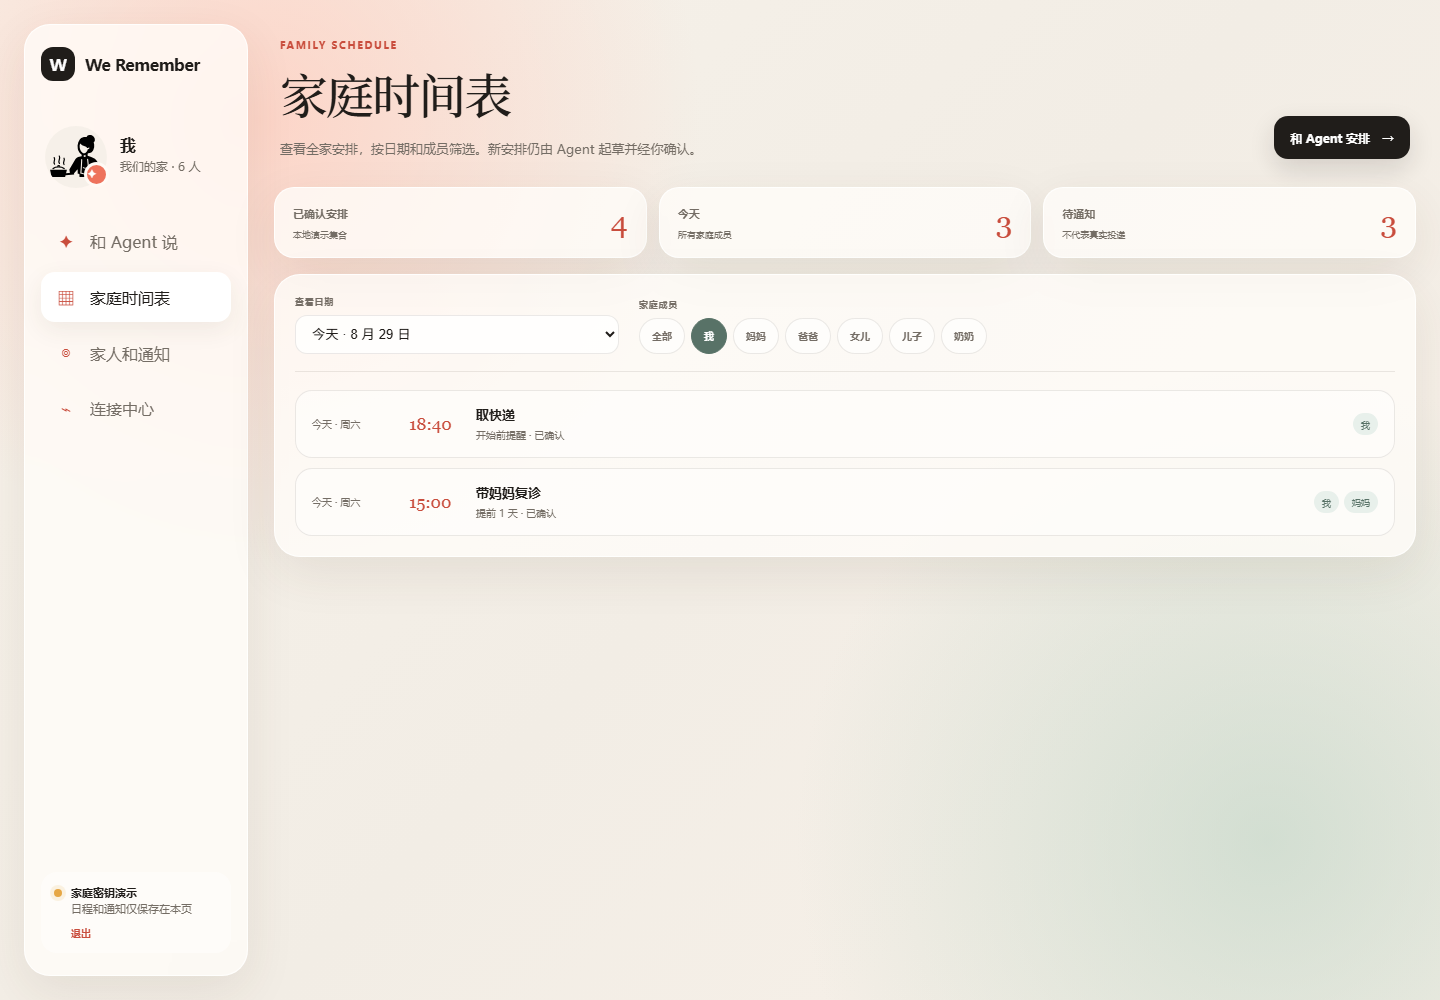
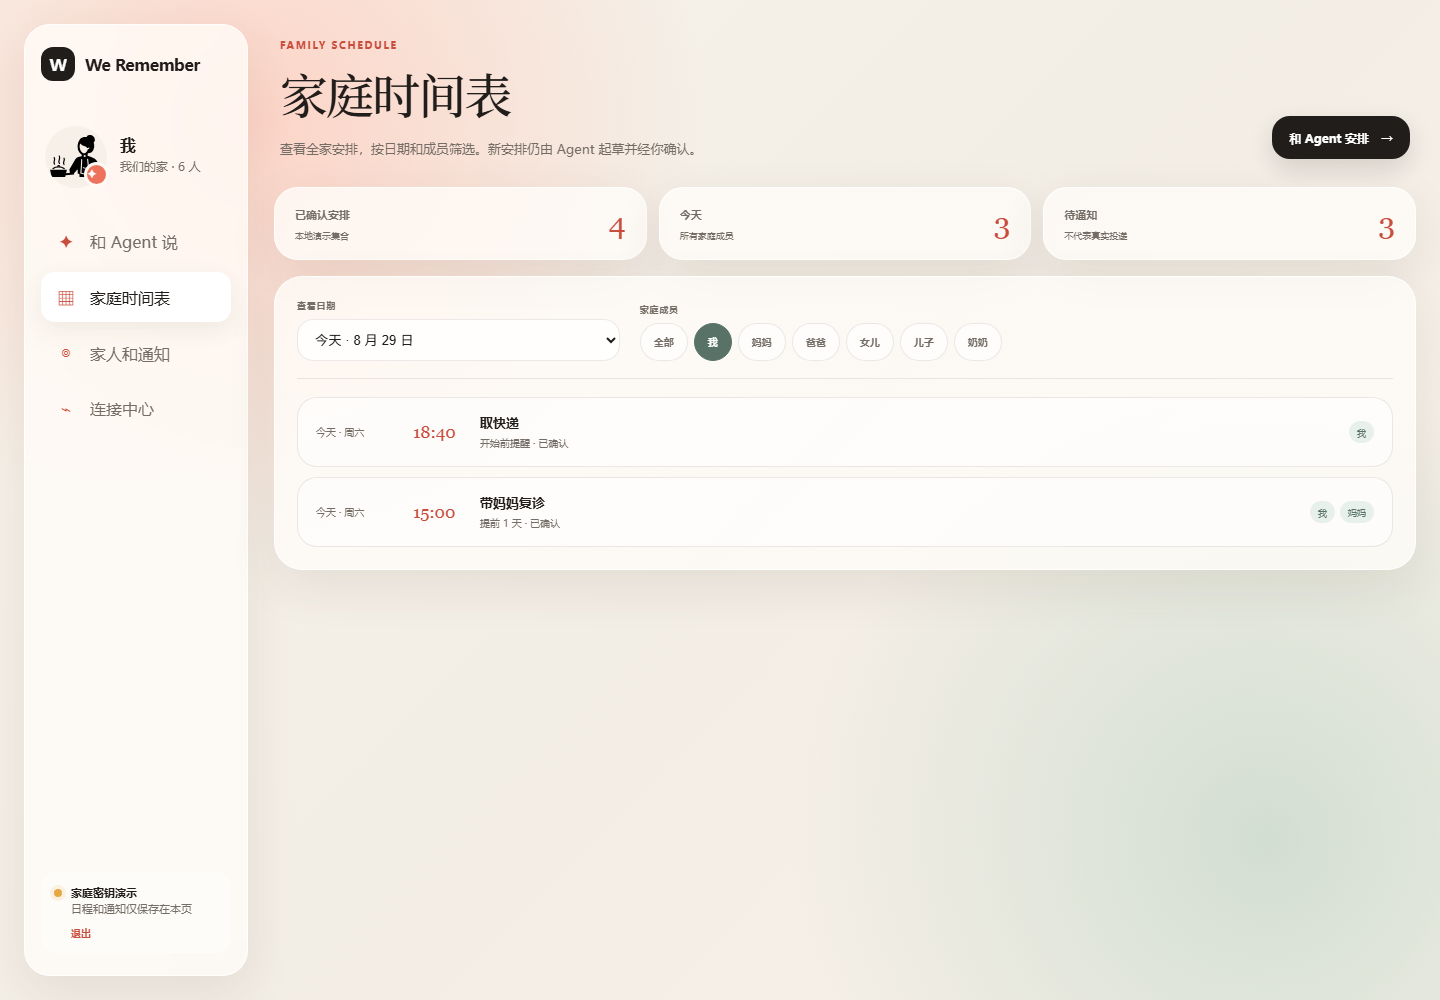
Polish rounded container interactions

diff --git a/app/styles.css b/app/styles.css
@@ -272,24 +272,29 @@ button { color: inherit; }
 .page-header { display: flex; justify-content: space-between; gap: 24px; align-items: flex-end; padding: 0 6px; }
 .page-header h1 { margin: 0; font-family: Georgia, "Songti SC", serif; font-size: clamp(31px, 4vw, 48px); font-weight: 500; letter-spacing: -0.04em; text-wrap: balance; }
 .page-header p:last-child { max-width: 620px; margin: 10px 0 0; color: var(--muted); font-size: 13px; line-height: 1.65; text-wrap: pretty; }
-.primary-page-action { display: flex; flex: 0 0 auto; align-items: center; gap: 12px; min-height: 43px; padding: 0 16px; color: white; border: 0; border-radius: 14px; background: var(--ink); box-shadow: 0 10px 26px rgba(32,29,26,.14); cursor: pointer; font-size: 12px; font-weight: 750; transition: transform 180ms ease, background 180ms ease; }
+.primary-page-action { display: flex; flex: 0 0 auto; align-items: center; gap: 12px; min-height: 43px; padding: 0 17px; color: white; border: 0; border-radius: 18px; background: var(--ink); box-shadow: 0 10px 26px rgba(32,29,26,.14); cursor: pointer; font-size: 12px; font-weight: 750; transition: transform 180ms ease, background 180ms ease; }
 .primary-page-action:hover { transform: translateY(-2px); background: var(--accent-dark); }
+.primary-page-action:active { transform: scale(.96); }
 .summary-grid { display: grid; grid-template-columns: repeat(3, minmax(0, 1fr)); gap: 12px; margin: 28px 0 16px; }
-.summary-card { display: grid; grid-template-columns: minmax(0, 1fr) auto; gap: 6px 14px; align-items: center; padding: 17px 18px; border-radius: 20px; }
+.summary-card { display: grid; grid-template-columns: minmax(0, 1fr) auto; gap: 6px 14px; align-items: center; padding: 18px 20px; border-radius: 24px; }
 .summary-card > span { color: var(--muted); font-size: 11px; font-weight: 700; }
 .summary-card strong { grid-row: 1 / 3; grid-column: 2; color: var(--accent-dark); font-family: Georgia, serif; font-size: 30px; font-variant-numeric: tabular-nums; font-weight: 500; }
 .summary-card small { color: var(--muted); font-size: 9px; }
-.schedule-panel, .people-panel, .receipts-panel { border-radius: var(--radius-lg); }
-.schedule-panel { padding: 20px; }
+.schedule-panel, .people-panel, .receipts-panel { border-radius: 28px; }
+.schedule-panel { padding: 22px; }
 .filter-bar { display: grid; grid-template-columns: minmax(190px, .6fr) minmax(0, 1.4fr); gap: 20px; align-items: end; padding-bottom: 17px; border-bottom: 1px solid var(--line); }
 .filter-bar label, .member-filter { display: grid; gap: 8px; }
 .filter-bar label > span, .member-filter > span { color: var(--muted); font-size: 9px; font-weight: 800; letter-spacing: .08em; text-transform: uppercase; }
-.filter-bar select { width: 100%; min-height: 39px; padding: 0 12px; color: var(--ink); border: 1px solid var(--line); border-radius: 12px; background: rgba(255,255,255,.78); }
+.filter-bar select { width: 100%; min-height: 42px; padding: 0 13px; color: var(--ink); border: 1px solid var(--line); border-radius: 16px; background: rgba(255,255,255,.78); transition: border-color 150ms ease, background-color 150ms ease; }
+.filter-bar select:hover { border-color: rgba(74,65,55,.24); background: rgba(255,255,255,.94); }
 .member-filter > div { display: flex; flex-wrap: wrap; gap: 6px; }
-.member-filter button { min-height: 36px; padding: 0 12px; color: var(--muted); border: 1px solid var(--line); border-radius: 999px; background: rgba(255,255,255,.54); cursor: pointer; font-size: 10px; font-weight: 700; }
+.member-filter button { min-height: 38px; padding: 0 13px; color: var(--muted); border: 1px solid var(--line); border-radius: 999px; background: rgba(255,255,255,.54); cursor: pointer; font-size: 10px; font-weight: 700; transition: transform 150ms ease, border-color 150ms ease, background-color 150ms ease, color 150ms ease; }
+.member-filter button:hover { border-color: rgba(90,123,106,.38); background: rgba(255,255,255,.88); }
+.member-filter button:active { transform: scale(.96); }
 .member-filter button[aria-pressed="true"] { color: white; border-color: var(--sage); background: var(--sage); }
 .schedule-event-list { display: grid; gap: 10px; margin-top: 18px; }
-.schedule-event { display: grid; grid-template-columns: 82px 52px minmax(0, 1fr) auto; gap: 15px; align-items: center; padding: 15px 16px; border: 1px solid var(--line); border-radius: 17px; background: rgba(255,255,255,.48); }
+.schedule-event { display: grid; grid-template-columns: 82px 52px minmax(0, 1fr) auto; gap: 15px; align-items: center; padding: 16px 18px; border: 1px solid var(--line); border-radius: 20px; background: rgba(255,255,255,.52); transition: border-color 150ms ease, background-color 150ms ease, box-shadow 180ms ease; }
+.schedule-event:hover { border-color: rgba(90,123,106,.2); background: rgba(255,255,255,.82); box-shadow: 0 6px 8px rgba(80,57,38,.06); }
 .schedule-event .event-day { color: var(--muted); font-size: 10px; }
 .schedule-event time { color: var(--accent-dark); font-family: Georgia, serif; font-size: 17px; font-variant-numeric: tabular-nums; }
 .schedule-event strong, .schedule-event small { display: block; }
@@ -297,21 +302,22 @@ button { color: inherit; }
 .schedule-event small { margin-top: 5px; color: var(--muted); font-size: 10px; }
 .schedule-event .event-members { display: flex; flex-wrap: wrap; justify-content: flex-end; gap: 5px; }
 .schedule-event .event-members span { padding: 5px 8px; color: var(--sage); border-radius: 999px; background: #e8f0eb; font-size: 9px; }
-.empty-state { padding: 32px 20px; color: var(--muted); border: 1px dashed rgba(74,65,55,.2); border-radius: 17px; text-align: center; }
+.empty-state { padding: 32px 20px; color: var(--muted); border: 1px dashed rgba(74,65,55,.2); border-radius: 22px; text-align: center; }
 .empty-state strong { display: block; color: var(--ink); font-size: 14px; }
 .empty-state p { margin: 7px 0 14px; font-size: 11px; }
 .empty-state button { color: var(--accent-dark); border: 0; background: transparent; cursor: pointer; font-size: 11px; font-weight: 750; }
-.demo-truth { display: flex; gap: 12px; align-items: center; margin: 26px 0 16px; padding: 14px 17px; border-radius: 18px; }
+.demo-truth { display: flex; gap: 13px; align-items: center; margin: 26px 0 16px; padding: 16px 19px; border-radius: 24px; }
 .demo-truth > span { display: grid; flex: 0 0 auto; width: 31px; height: 31px; place-items: center; color: #8a6731; border-radius: 50%; background: #fae7bd; font-family: Georgia, serif; font-weight: 700; }
 .demo-truth strong { font-size: 11px; }
 .demo-truth p { margin: 4px 0 0; color: var(--muted); font-size: 10px; line-height: 1.55; }
 .people-layout { display: grid; grid-template-columns: minmax(290px, .85fr) minmax(380px, 1.15fr); gap: 16px; }
-.people-panel, .receipts-panel { padding: 20px; }
+.people-panel, .receipts-panel { padding: 22px; }
 .people-panel > header, .receipts-panel > header { display: flex; justify-content: space-between; align-items: flex-start; }
 .people-panel h2, .receipts-panel h2 { margin: 0; font-family: Georgia, "Songti SC", serif; font-size: 22px; font-weight: 500; }
 .people-panel > header > span, .receipts-panel > header > span { padding: 5px 8px; color: var(--muted); border-radius: 999px; background: rgba(255,255,255,.68); font-size: 9px; }
 .people-member-list, .notification-receipt-list { display: grid; gap: 9px; margin-top: 16px; }
-.member-row { display: grid; grid-template-columns: 38px minmax(0, 1fr) auto; gap: 11px; align-items: center; padding: 10px; border: 1px solid var(--line); border-radius: 15px; background: rgba(255,255,255,.46); }
+.member-row { display: grid; grid-template-columns: 38px minmax(0, 1fr) auto; gap: 11px; align-items: center; padding: 11px 12px; border: 1px solid var(--line); border-radius: 20px; background: rgba(255,255,255,.5); transition: border-color 150ms ease, background-color 150ms ease, box-shadow 180ms ease; }
+.member-row:hover { border-color: rgba(90,123,106,.2); background: rgba(255,255,255,.82); box-shadow: 0 6px 8px rgba(80,57,38,.06); }
 .member-row .person-avatar { width: 38px; height: 38px; }
 .member-row strong, .member-row small { display: block; }
 .member-row strong { font-size: 12px; }
@@ -326,7 +332,8 @@ button { color: inherit; }
 .receipt-legend .queued, .receipt-status.queued { background: #e7a744; }
 .receipt-legend .accepted, .receipt-status.accepted { background: #75a987; }
 .receipt-legend .failed, .receipt-status.failed { background: #cb6757; }
-.notification-receipt { display: grid; grid-template-columns: 9px minmax(0, 1fr) auto; gap: 10px; align-items: start; padding: 13px; border: 1px solid var(--line); border-radius: 15px; background: rgba(255,255,255,.46); }
+.notification-receipt { display: grid; grid-template-columns: 9px minmax(0, 1fr) auto; gap: 10px; align-items: start; padding: 14px 15px; border: 1px solid var(--line); border-radius: 20px; background: rgba(255,255,255,.5); transition: border-color 150ms ease, background-color 150ms ease, box-shadow 180ms ease; }
+.notification-receipt:hover { border-color: rgba(90,123,106,.2); background: rgba(255,255,255,.82); box-shadow: 0 6px 8px rgba(80,57,38,.06); }
 .receipt-status { width: 8px; height: 8px; margin-top: 4px; border-radius: 50%; }
 .notification-receipt strong, .notification-receipt small { display: block; }
 .notification-receipt strong { font-size: 11px; }
@@ -471,7 +478,7 @@ button:focus-visible, input:focus-visible, textarea:focus-visible, select:focus-
   .summary-grid { grid-template-columns: 1fr; gap: 8px; margin-top: 18px; }
   .summary-card { padding: 13px 15px; }
   .summary-card strong { font-size: 25px; }
-  .schedule-panel, .people-panel, .receipts-panel { padding: 14px; border-radius: 21px; }
+  .schedule-panel, .people-panel, .receipts-panel { padding: 16px; border-radius: 26px; }
   .filter-bar { grid-template-columns: 1fr; gap: 14px; }
   .member-filter > div { flex-wrap: nowrap; margin: 0 -2px; padding: 2px 2px 7px; overflow-x: auto; scrollbar-width: thin; }
   .member-filter button { flex: 0 0 auto; }

diff --git a/app/index.html b/app/index.html
@@ -194,12 +194,12 @@
           </header>
 
           <section class="summary-grid" aria-label="时间表摘要">
-            <article class="summary-card surface"><span>已确认安排</span><strong id="schedule-total-count">3</strong><small>本地演示集合</small></article>
-            <article class="summary-card surface"><span>今天</span><strong id="schedule-today-count">2</strong><small>所有家庭成员</small></article>
-            <article class="summary-card surface"><span>待通知</span><strong id="schedule-notification-count">0</strong><small>不代表真实投递</small></article>
+            <article class="summary-card surface lift-card"><span>已确认安排</span><strong id="schedule-total-count">3</strong><small>本地演示集合</small></article>
+            <article class="summary-card surface lift-card"><span>今天</span><strong id="schedule-today-count">2</strong><small>所有家庭成员</small></article>
+            <article class="summary-card surface lift-card"><span>待通知</span><strong id="schedule-notification-count">0</strong><small>不代表真实投递</small></article>
           </section>
 
-          <section class="schedule-panel surface">
+          <section class="schedule-panel surface lift-card">
             <div class="filter-bar">
               <label for="schedule-day-filter"><span>查看日期</span><select id="schedule-day-filter"><option value="all">本周全部</option><option value="today">今天 · 8 月 29 日</option><option value="tomorrow">明天 · 8 月 30 日</option><option value="saturday">周六 · 8 月 29 日</option></select></label>
               <div class="member-filter" aria-label="按家庭成员筛选">
@@ -235,11 +235,11 @@
           </aside>
 
           <div class="people-layout">
-            <section class="people-panel surface" aria-labelledby="member-list-title">
+            <section class="people-panel surface lift-card" aria-labelledby="member-list-title">
               <header><div><p class="eyebrow">MEMBERS</p><h2 id="member-list-title">家庭成员</h2></div><span>6 人</span></header>
               <div id="people-member-list" class="people-member-list"></div>
             </section>
-            <section class="receipts-panel surface" aria-labelledby="receipt-list-title">
+            <section class="receipts-panel surface lift-card" aria-labelledby="receipt-list-title">
               <header><div><p class="eyebrow">RECEIPTS</p><h2 id="receipt-list-title">通知回执历史</h2></div><span id="receipt-total-count">2 条</span></header>
               <div class="receipt-legend" aria-label="状态说明"><span><i class="queued"></i>本地排队</span><span><i class="accepted"></i>演示接受</span><span><i class="failed"></i>演示失败</span></div>
               <div id="notification-receipt-list" class="notification-receipt-list" aria-live="polite"></div>

diff --git a/scripts/verify_app.py b/scripts/verify_app.py
@@ -42,6 +42,9 @@ require(HTML, 'data-member-filter', "schedule member filters")
 require(HTML, 'id="schedule-event-list"', "shared schedule event list")
 require(HTML, 'id="people-member-list"', "family member list")
 require(HTML, 'id="notification-receipt-list"', "notification receipt list")
+require(HTML, 'class="schedule-panel surface lift-card"', "schedule container elevation")
+require(HTML, 'class="people-panel surface lift-card"', "people container elevation")
+require(HTML, 'class="receipts-panel surface lift-card"', "receipt container elevation")
 require(HTML, 'data-create-with-agent', "route back to Agent")
 require(HTML, 'id="auth-gate"', "signed-out gate")
 require(HTML, 'id="family-key-input"', "family-key input")
@@ -66,6 +69,9 @@ require(JS, 'new Set(["image/png", "image/jpeg", "image/webp"])', "avatar upload
 require(CSS, "@media (max-width: 520px)", "mobile breakpoint")
 require(CSS, "@media (prefers-reduced-motion: reduce)", "reduced-motion support")
 require(CSS, "translateY(-4px)", "reference-inspired card lift")
+require(CSS, ".schedule-panel, .people-panel, .receipts-panel { border-radius: 28px; }", "rounded primary detail containers")
+require(CSS, ".member-row:hover", "member container feedback")
+require(CSS, ".notification-receipt:hover", "receipt container feedback")
 require(OPENAPI, "/gateway/v1/installations/{installationId}/events:", "custom bot ingress endpoint")
 require(OPENAPI, "/gateway/v1/installations/{installationId}/delivery-receipts:", "delivery receipt endpoint")
 require(OPENAPI, "botDelivery:", "outbound delivery webhook")

diff --git a/docs/container-motion-materials.md b/docs/container-motion-materials.md
@@ -1,0 +1,123 @@
+# Container and Motion Materials
+
+## Purpose
+
+This document is the handoff inventory for the container treatments and motion recipes currently used by the conversational schedule prototype. The implementation source of truth remains [`app/styles.css`](../app/styles.css), with container placement in [`app/index.html`](../app/index.html) and the generated schedule draft in [`app/app.js`](../app/app.js).
+
+## Visual reference
+
+- Reference: [davidwang.space](https://davidwang.space)
+- Adopted principles: a stable identity rail, translucent rounded surfaces, restrained elevation, short state transitions, and persistent feedback while media input is active.
+- Boundary: the project does not copy or load the reference site's images, text, branding, source code, or hosted assets. Its palette, hierarchy, content, and SVG identity assets are original to this product.
+- Runtime rule: the application must remain fully usable if the reference URL is unavailable.
+
+## Foundation materials
+
+| Material | Current value | Usage |
+| --- | --- | --- |
+| Translucent paper | `rgba(255, 253, 249, 0.79)` | Shared `.surface` background |
+| Surface edge | `1px solid rgba(255, 255, 255, 0.82)` | Separates glass surfaces from the backdrop |
+| Surface blur | `blur(20px) saturate(1.08)` | Shared `.surface` backdrop treatment |
+| Resting shadow | `0 16px 50px rgba(80, 57, 38, 0.09)` | Default surface depth |
+| Raised shadow | `0 22px 58px rgba(80, 57, 38, 0.15)` | Hover and composer-focus depth |
+| Large radius | `26px` | Rails and primary cards |
+| Medium radius | `18px` | Secondary containers |
+| Product easing | `cubic-bezier(0.22, 1, 0.36, 1)` | Entry, dialog, and spatial state changes |
+| Ambient backdrop | Two fixed `340px` blurred color fields plus page radial gradients | Soft depth behind translucent containers; CSS only |
+
+The shared `.surface` class is the base material. Component classes should add layout, radius, and interaction behavior without duplicating the blur and shadow recipe.
+
+## Container inventory
+
+| Container | Selector | Material and shape | Motion | Product role |
+| --- | --- | --- | --- | --- |
+| Entry shell | `.auth-card.surface` | Translucent surface, `32px` radius | Child `.auth-step` enters in `260ms` | Keeps family matching and avatar selection visually contained |
+| Entry step | `.auth-step` | White overlay, `24px` radius | `enter`: fade, `8px` rise, `.985` to `1` scale | Makes each setup state change legible without a page transition |
+| Identity rail | `.identity-rail.surface` | Sticky translucent rail, `26px` radius | Navigation shifts `2px` horizontally; avatar rotates `4deg` and scales to `1.04` | Preserves identity and primary navigation on desktop |
+| Family badge | `.family-badge.surface` | Compact translucent identity chip | No container animation | Keeps the selected family and avatar visible without competing with the Agent |
+| Composer | `.composer.surface` | Floating translucent input, `24px` radius | Focus rises `2px` over `220ms` and uses the raised shadow | Signals that text or voice input is active |
+| Schedule draft | `.draft-card` | Warm opaque card, `22px` radius, resting shadow | Arrives with its parent message using `enter` in `260ms` | Separates reviewable intent from a committed schedule item |
+| Agenda card | `.agenda-card.surface.lift-card` | Shared surface, `26px` radius | Hover rises `4px` over `250ms` | Makes the timeline summary inspectable without implying an action |
+| People card | `.people-card.surface.lift-card` | Shared surface, `26px` radius | Hover rises `4px` over `250ms` | Groups presence and notification context |
+| Notification receipt | `.receipt-card.surface` | Shared surface, `20px` radius | `enter` in `260ms` | Shows local confirmation only after the user confirms a draft |
+| Connection dialog | `.integrations-dialog` and `.integrations-shell` | Opaque warm sheet, `28px` radius, blurred backdrop | `dialog-in` over `280ms`: fade, `12px` rise, `.97` to `1` scale | Establishes a focused integration-management layer |
+| Channel card | `.channel-card` | White overlay, `20px` radius | Hover rises `4px` over `230ms`; details enter in `200ms` | Exposes each channel as an independent installation |
+| Mobile navigation | `.mobile-nav.surface` | Fixed translucent bar, `20px` radius | Active state changes color/background; global reduced-motion rule applies | Keeps the four primary destinations reachable above the mobile edge |
+| Toast | `.toast` | Dark solid feedback container, `14px` radius | `enter` in `220ms` | Provides brief, non-persistent operation feedback |
+| Schedule overview | `.summary-card.surface.lift-card` | Shared surface, `24px` radius | Hover rises `4px` over `250ms` | Keeps family counts visually grouped with the established inspectable-card behavior |
+| Schedule workspace | `.schedule-panel.surface.lift-card` | Shared surface, `28px` radius; `20px` event rows | Hover rises `4px`; rows change edge, fill, and bounded shadow without moving | Separates filters from confirmed events while keeping static rows from implying click behavior |
+| Family roster | `.people-panel.surface.lift-card` | Shared surface, `28px` radius; `20px` member rows | Panel rises `4px`; rows use non-spatial hover feedback | Groups member reachability and demo routes |
+| Receipt history | `.receipts-panel.surface.lift-card` | Shared surface, `28px` radius; `20px` receipt rows | Panel rises `4px`; rows use non-spatial hover feedback | Keeps delivery evidence distinct from family-member state |
+
+## Motion recipes
+
+### Entry
+
+Use `enter` for newly inserted content or a state that replaces another state:
+
+```css
+@keyframes enter {
+  from { opacity: 0; transform: translateY(8px) scale(.985); }
+  to { opacity: 1; transform: none; }
+}
+```
+
+Current durations are `200ms`, `220ms`, or `260ms`. Do not apply this animation to a permanently visible layout container on initial page load unless it communicates a real state change.
+
+### Elevation hierarchy
+
+- `translateY(-2px)`: buttons, avatar options, suggestions, and composer focus.
+- `translateY(-3px)`: date cells.
+- `translateY(-4px)`: inspectable cards such as agenda, people, and integration channels.
+
+Detail-page overview and primary panels reuse `.lift-card`. Their nested schedule, member, and receipt rows deliberately do not move: a background, edge, and bounded-shadow change supplies inspection feedback without suggesting that a static row is clickable.
+
+This hierarchy matters because it distinguishes a direct control from a larger inspectable surface. Avoid lifts larger than `4px`; they make the interface feel unstable and can imply draggable behavior.
+
+### Dialog reveal
+
+`dialog-in` uses a `12px` rise, `.97` initial scale, and `280ms` product easing. The backdrop is `rgba(32, 29, 26, 0.46)` with `7px` blur. At widths up to `520px`, the dialog becomes a bottom sheet with only the top corners rounded.
+
+### Voice activity
+
+The waveform bars alternate between `5px` and `17px` height over `760ms`. This is persistent state feedback, not decoration: it runs only while voice input is active and stops when recording stops.
+
+### Active and focus states
+
+Motion never carries state by itself. Active navigation, selected avatars, focused inputs, expanded channel details, and voice recording also use color, border, text, or `aria-*` state so the interaction remains understandable without animation.
+
+## Asset inventory
+
+The container and motion system has no external image dependency.
+
+- Surface depth, ambient color fields, borders, shadows, and transitions are CSS-native.
+- Icons used inside containers are text or inline interface marks; there is no icon package dependency.
+- The 12 static SVG avatars under `app/assets/family-work/` are identity content placed inside containers. They are not container-motion assets.
+- The transition SVGs under `svg-transition/` are separate showcase assets and are intentionally not loaded by the application.
+- Locally uploaded avatars are user content. They must not be treated as reusable design assets or committed to the repository.
+
+## Accessibility and reliability rules
+
+- Preserve the global `prefers-reduced-motion: reduce` override. It reduces animation and transition duration to `0.001ms` and limits animations to one iteration.
+- Keep keyboard focus visible. Hover transforms must never be the only interaction feedback.
+- Do not animate layout dimensions for primary containers. Prefer opacity and transform to avoid reflow and visual jitter.
+- Do not load motion assets from the reference site or make product rendering depend on that site's availability.
+- New persistent animation must communicate a live state and must stop when that state ends.
+
+## Responsive behavior
+
+- At `1120px`, the identity rail collapses to its icon-led form.
+- At `860px`, desktop side rails are removed, the composer and mobile navigation become fixed, and the main content receives bottom clearance.
+- At `520px`, the entry shell becomes full-screen with no outer radius, integration cards become one column, and the connection dialog becomes a bottom sheet.
+- Container changes must be checked at `1440px` desktop and a true `390px` mobile viewport for overflow, overlap, clipped actions, and fixed-layer collisions.
+
+## Reuse checklist
+
+Before adding or changing a container:
+
+1. Reuse `.surface` when the container belongs to the shared translucent layer.
+2. Select the smallest established lift that matches the interaction semantics.
+3. Keep state transitions within the current `150–300ms` range, except persistent voice feedback.
+4. Provide a non-motion state cue and preserve reduced-motion behavior.
+5. Verify desktop and mobile layouts with representative content.
+6. Update this inventory when a new reusable container or motion recipe is introduced.
